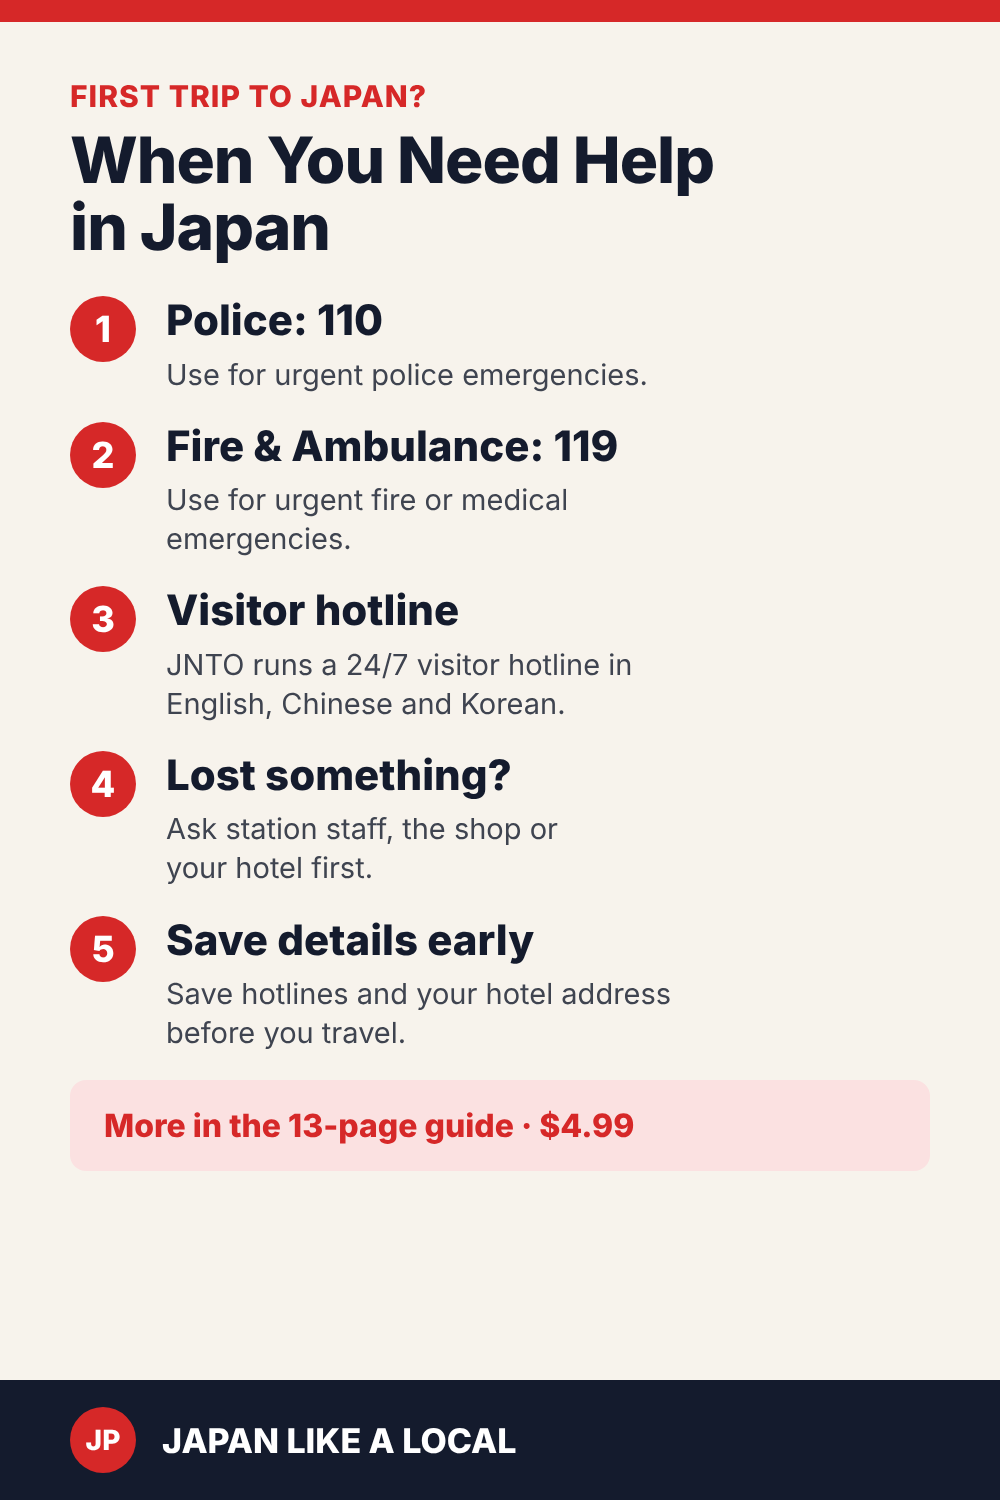
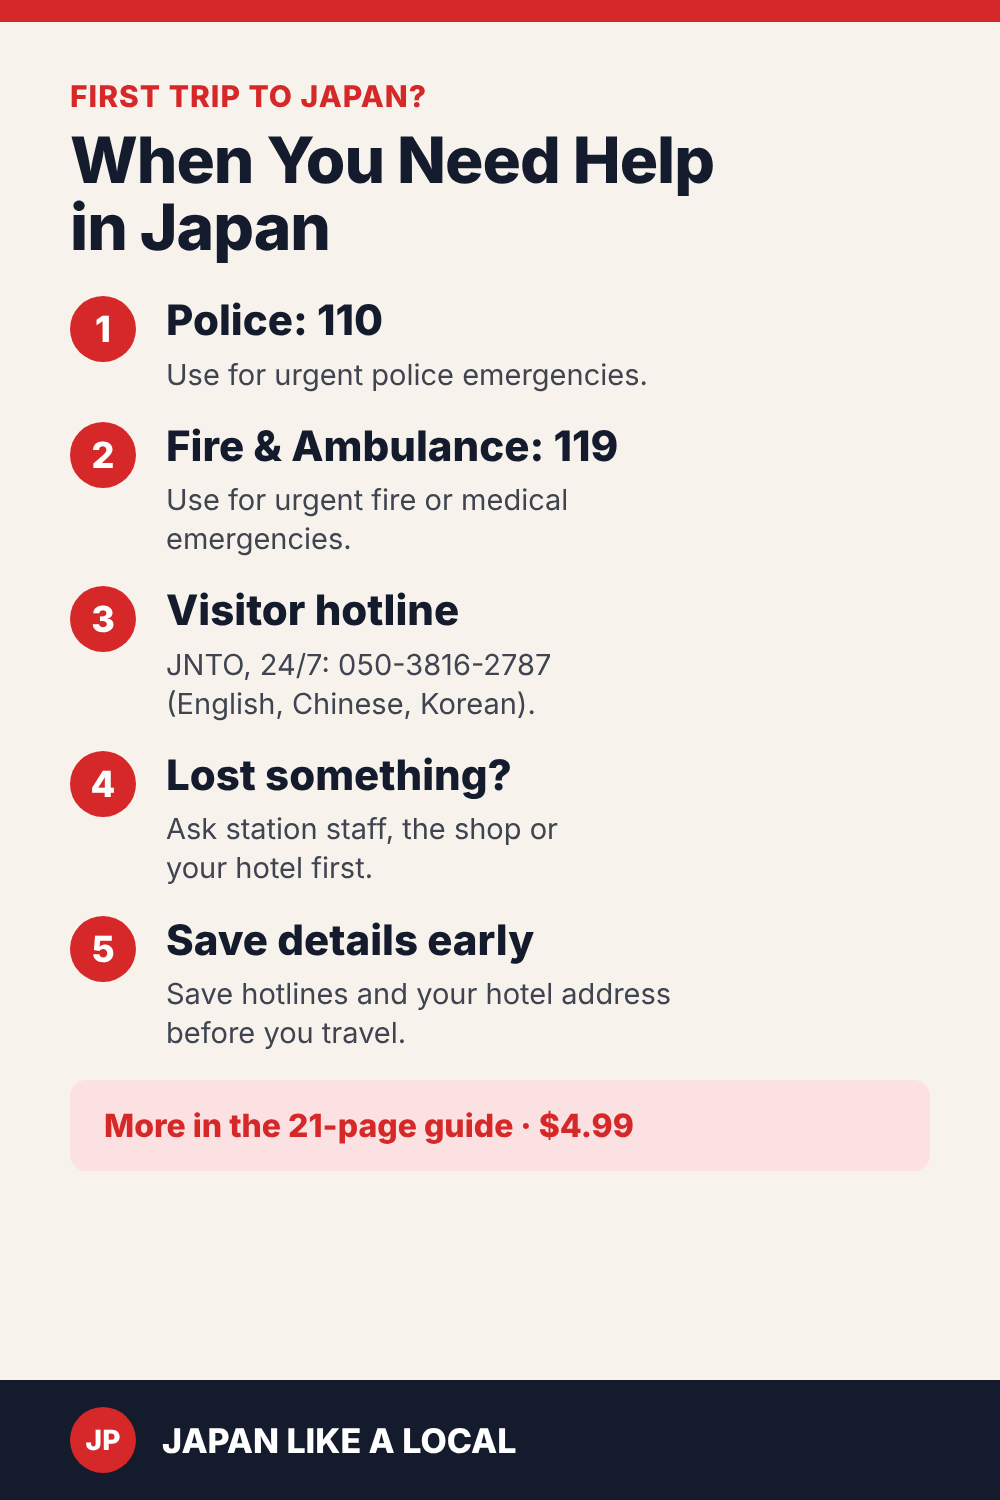
Paid-guide pins: 13-page -> 21-page; add hotline number
Claude-Session: https://claude.ai/code/session_01TjagRrtcak9M1F67RG8mqZ

Changed region(s): [[0.155, 0.4293, 0.62, 0.4907], [0.434, 0.736, 0.496, 0.7667], [0.279, 0.736, 0.341, 0.7667]]

diff --git a/tools/pin_help.html b/tools/pin_help.html
@@ -18,10 +18,10 @@ h1{font-size:64px;line-height:1.05;font-weight:800;margin:12px 0 36px;letter-spa
 <h1>When You Need Help<br>in Japan</h1>
 <div class="item"><div class="num">1</div><div><div class="t">Police: 110</div><div class="d">Use for urgent police emergencies.</div></div></div>
 <div class="item"><div class="num">2</div><div><div class="t">Fire &amp; Ambulance: 119</div><div class="d">Use for urgent fire or medical<br>emergencies.</div></div></div>
-<div class="item"><div class="num">3</div><div><div class="t">Visitor hotline</div><div class="d">JNTO runs a 24/7 visitor hotline in<br>English, Chinese and Korean.</div></div></div>
+<div class="item"><div class="num">3</div><div><div class="t">Visitor hotline</div><div class="d">JNTO, 24/7: 050-3816-2787<br>(English, Chinese, Korean).</div></div></div>
 <div class="item"><div class="num">4</div><div><div class="t">Lost something?</div><div class="d">Ask station staff, the shop or<br>your hotel first.</div></div></div>
 <div class="item"><div class="num">5</div><div><div class="t">Save details early</div><div class="d">Save hotlines and your hotel address<br>before you travel.</div></div></div>
-<div class="cta">More in the 13-page guide · $4.99</div>
+<div class="cta">More in the 21-page guide · $4.99</div>
 </div>
 <div class="foot"><div class="jp">JP</div>JAPAN LIKE A LOCAL</div>
 </body></html>

diff --git a/tools/pin_paid_guide.html b/tools/pin_paid_guide.html
@@ -19,8 +19,8 @@ h1{font-size:64px;line-height:1.05;font-weight:800;margin:12px 0 36px;letter-spa
 </style></head><body>
 <div class="top"></div><div class="wrap">
 <div class="tag">FIRST TRIP TO JAPAN?</div>
-<h1 style="font-size:80px;margin-bottom:30px">The 13-Page Guide<br>for First-Time Visitors</h1>
-<div class="price">13-page PDF · $4.99</div>
+<h1 style="font-size:80px;margin-bottom:30px">The 21-Page Guide<br>for First-Time Visitors</h1>
+<div class="price">21-page PDF · $4.99</div>
 <div class="list"><div class="li"><div class="ck">✓</div>Money, cash and IC cards</div><div class="li"><div class="ck">✓</div>Trains and basic etiquette</div><div class="li"><div class="ck">✓</div>Tipping and everyday manners</div><div class="li"><div class="ck">✓</div>Convenience stores &amp; restaurants</div><div class="li"><div class="ck">✓</div>Useful Japanese phrases</div><div class="li"><div class="ck">✓</div>Common first-time mistakes</div><div class="li"><div class="ck">✓</div>Emergency information</div><div class="li"><div class="ck">✓</div>A simple first-24-hours plan</div><div class="li"><div class="ck">✓</div>A one-page cheat sheet</div></div>
 <div class="cta">Easy to keep on your phone while you travel.</div>
 </div>

diff --git a/tools/pin_mistakes.html b/tools/pin_mistakes.html
@@ -21,7 +21,7 @@ h1{font-size:64px;line-height:1.05;font-weight:800;margin:12px 0 36px;letter-spa
 <div class="item"><div class="num">3</div><div><div class="t">Hunting for trash bins</div><div class="d">Carry your trash until you find<br>a proper bin.</div></div></div>
 <div class="item"><div class="num">4</div><div><div class="t">Automatic tipping</div><div class="d">In most everyday situations,<br>it is unnecessary.</div></div></div>
 <div class="item"><div class="num">5</div><div><div class="t">Overplanning</div><div class="d">Leave buffer time for big stations,<br>wrong exits and surprises.</div></div></div>
-<div class="cta">Rules vary by place. More in the<br>13-page guide · $4.99</div>
+<div class="cta">Rules vary by place. More in the<br>21-page guide · $4.99</div>
 </div>
 <div class="foot"><div class="jp">JP</div>JAPAN LIKE A LOCAL</div>
 </body></html>
